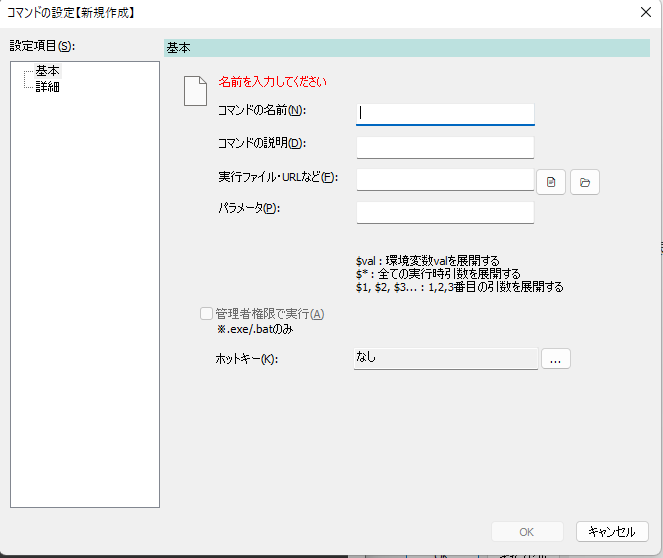
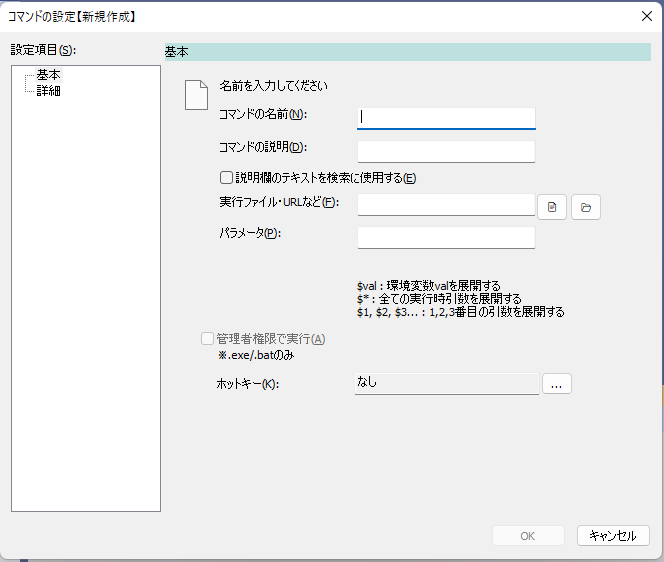
説明テキストをコマンド絞り込みに使う機能を追加(通常コマンドのみ対応)

diff --git a/soyokaze/commands/shellexecute/ShellExecCommand.cpp b/soyokaze/commands/shellexecute/ShellExecCommand.cpp
@@ -256,7 +256,16 @@ HICON ShellExecCommand::GetIcon()
 
 int ShellExecCommand::Match(Pattern* pattern)
 {
-	return pattern->Match(GetName());
+	int level = pattern->Match(GetName());
+	if (level != Pattern::Mismatch) {
+		return level;
+	}
+
+	// 名前でヒットしなかった場合、必要に応じて説明欄の文字列でもマッチングを行う
+	if (in->mParam.mIsUseDescriptionForMatching == FALSE) {
+		return level;
+	}
+	return pattern->Match(GetDescription());
 }
 
 bool ShellExecCommand::IsEditable()
@@ -304,6 +313,7 @@ int ShellExecCommand::EditDialog(const Parameter* args)
 	cmdNew->SetDescription(param.mDescription);
 	cmdNew->SetRunAs(param.mIsRunAsAdmin);
 	cmdNew->in->mParam.mIsShowArgDialog = param.mIsShowArgDialog;
+	cmdNew->in->mParam.mIsUseDescriptionForMatching = param.mIsUseDescriptionForMatching;
 
 	ShellExecCommand::ATTRIBUTE normalAttr;
 	normalAttr.mPath = param.mPath;
@@ -421,6 +431,7 @@ bool ShellExecCommand::NewDialog(
 	newCmd->in->mParam.mDescription = commandParam.mDescription;
 	newCmd->in->mParam.mIsRunAsAdmin = (commandParam.mIsRunAsAdmin != 0);
 	newCmd->in->mParam.mIsShowArgDialog =  commandParam.mIsShowArgDialog;
+	newCmd->in->mParam.mIsUseDescriptionForMatching = commandParam.mIsUseDescriptionForMatching;
 
 	ShellExecCommand::ATTRIBUTE normalAttr;
 	normalAttr.mPath =commandParam.mPath;

diff --git a/soyokaze/commands/shellexecute/ShellExecCommandParam.cpp b/soyokaze/commands/shellexecute/ShellExecCommandParam.cpp
@@ -16,7 +16,8 @@ CommandParam::CommandParam() :
 	mShowType(0),
 	mIsUse0(FALSE),
 	mIsGlobal(false),
-	mIsShowArgDialog(FALSE)
+	mIsShowArgDialog(FALSE),
+	mIsUseDescriptionForMatching(FALSE)
 {
 }
 
@@ -36,6 +37,7 @@ CommandParam::CommandParam(const CommandParam& rhs)
 	mIsShowArgDialog = rhs.mIsShowArgDialog;
 	mHotKeyAttr = rhs.mHotKeyAttr;
 	mIsGlobal = rhs.mIsGlobal;
+	mIsUseDescriptionForMatching = rhs.mIsUseDescriptionForMatching;
 }
 
 CommandParam::~CommandParam()
@@ -58,6 +60,7 @@ CommandParam& CommandParam::operator = (const CommandParam& rhs)
 		mIsShowArgDialog = rhs.mIsShowArgDialog;
 		mHotKeyAttr = rhs.mHotKeyAttr;
 		mIsGlobal = rhs.mIsGlobal;
+		mIsUseDescriptionForMatching = rhs.mIsUseDescriptionForMatching;
 	}
 	return *this;
 }

diff --git a/soyokaze/commands/shellexecute/CommandEditDialog.cpp b/soyokaze/commands/shellexecute/CommandEditDialog.cpp
@@ -44,6 +44,7 @@ void CommandEditDialog::DoDataExchange(CDataExchange* pDX)
 	DDX_Text(pDX, IDC_EDIT_PARAM, mParam.mParameter);
 	DDX_Text(pDX, IDC_EDIT_HOTKEY2, mHotKey);
 	DDX_Check(pDX, IDC_CHECK_SHOWARGINPUT, mParam.mIsShowArgDialog);
+	DDX_Check(pDX, IDC_CHECK_USEDESCRIPTIONFORMATCHING, mParam.mIsUseDescriptionForMatching);
 }
 
 BEGIN_MESSAGE_MAP(CommandEditDialog, SettingPage)
@@ -245,6 +246,7 @@ void CommandEditDialog::OnOK()
 	param->mPath = mParam.mPath;
 	param->mParameter = mParam.mParameter;
 	param->mIsShowArgDialog = mParam.mIsShowArgDialog;
+	param->mIsUseDescriptionForMatching = mParam.mIsUseDescriptionForMatching;
 	param->mHotKeyAttr = mParam.mHotKeyAttr;
 
 	const tregex& regArg = GetRegexForArgument();

diff --git a/soyokaze/resource.h b/soyokaze/resource.h
@@ -138,6 +138,8 @@
 #define IDC_BUTTON_BROWSEFILE3          1013
 #define IDC_BUTTON_BROWSEFILE2          1014
 #define IDC_BUTTON_BROWSEDIR4           1014
+#define IDC_CHECK_SHOWARGINPUT2         1014
+#define IDC_CHECK_USEDESCRIPTIONFORMATCHING 1014
 #define IDC_BUTTON_BROWSEDIR2           1015
 #define IDC_STATIC_PATH                 1016
 #define IDC_STATIC_PARAM                1017

diff --git a/soyokaze/commands/shellexecute/ShellExecCommandParam.h b/soyokaze/commands/shellexecute/ShellExecCommandParam.h
@@ -44,6 +44,9 @@ public:
 	// 引数が与えられなかった場合に引数入力用のダイアログを追加で表示する
 	BOOL mIsShowArgDialog;
 
+	// 説明欄の文字列をマッチングに利用するか?
+	BOOL mIsUseDescriptionForMatching;
+
 	HOTKEY_ATTR mHotKeyAttr;
 	bool mIsGlobal;
 };

diff --git a/doc/help.md b/doc/help.md
@@ -480,6 +480,9 @@ Soyokaze配置ディレクトリ/
   - 入力画面からコマンドを実行するためのキーワード
 - `コマンドの説明`
   - コメント表示欄に記載される文字列。
+- `説明欄のテキストを検索に使用する`
+  - チェックすると、`コマンドの説明`に入力したテキストもコマンドの絞り込みに使用する
+    - 例えば上の図の場合、「起動」と入力した場合にも、コマンドが候補にあがるようになる
 - `実行ファイル・URLなど`
   - 実行ファイル(`*.exe`)を指定すると、その実行ファイルが実行される
   - URL(`http://...` `https://...`)を指定すると、ブラウザでそのURLを表示する
